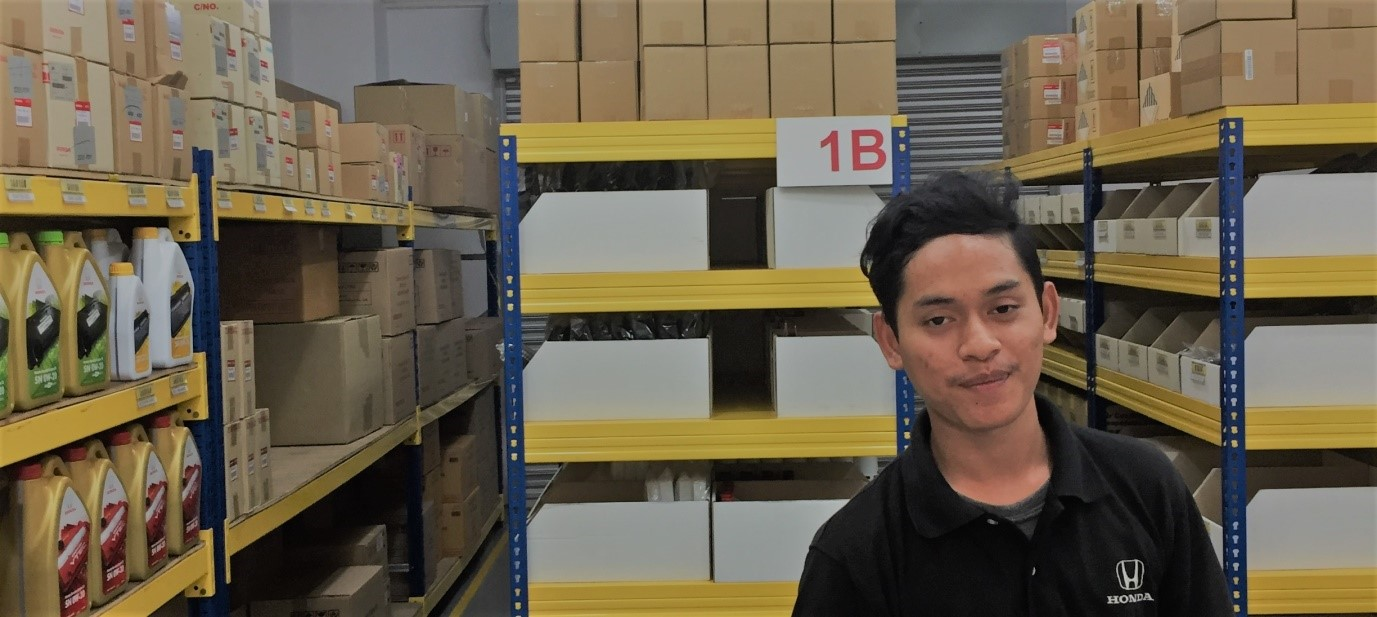
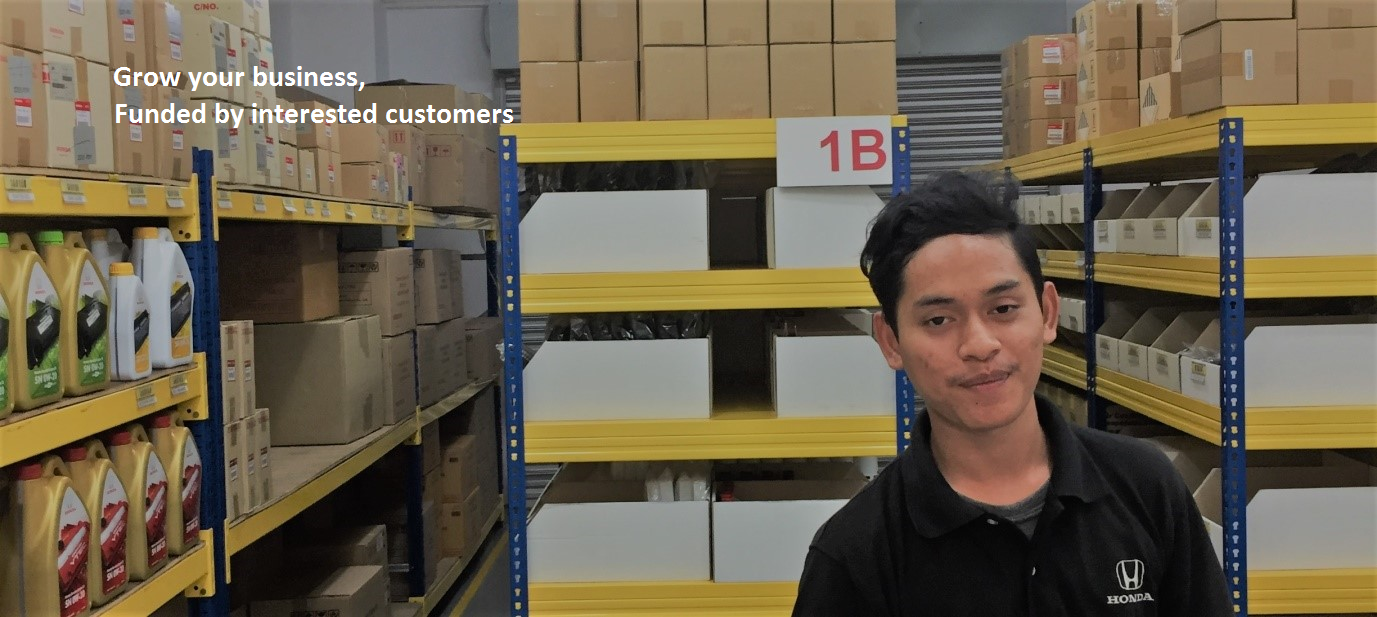
validation updated

Changed region(s): [[0.0625, 0.0924, 0.3747, 0.2156]]

diff --git a/resources/views/home/businessLoans.blade.php b/resources/views/home/businessLoans.blade.php
@@ -1,59 +1,47 @@
 @extends('layouts.app')
 @section('content')
 
-    <div class="container" >
-        <div class="col-sm-12" >
-            <h1 ><b>Business Loans </b></h1>
-    <div class="container">
-        <div class="row">
-            <div class="col-sm-8">
-                <div class="card">
-                    <div class="card-block">
+    <div class="container-responsive"  >
 
-                        <img src = {{asset('/images/borrower.png')}}  height="400" width="1050">
 
-                        <p id="cap">
-                            Grow your business,<br>
-                            Funded by interested customers
-                        </p>
+            <div class="col-sm-12" style="padding-top:25px">
+            <div class="container-fluid">
+        <h1 ><b>Business Loans </b></h1>
+                        <img src = {{asset('/images/borrower.png')}} class="img-fluid" class="img-responsive" >
 
-                    </div>
-                </div>
-            </div>
         </div>
     </div>
-
-    <div class="container">
+            <div class="container-fluid">
         <div class="row">
-            <div class="col-sm-11">
-                <div class="card">
-                    <div class="card-block">
-    <table class="Business Loans table">
-        <thead>
+            <div class="col-sm-12">
+
+
+    <table class="Business Loans table-responsive">
+        <thead><br><br>
         <tr><th> Borrow MYR 50,000– MYR3mm <br> unsecured   </th>
-            <th> |<br>| </th>
+
             <th>Online application. Decision <br> in 2 working days  </th>
-            <th> | <br>|</th>
+
             <th>Flexible terms up to <br> 3 years </th>
-            <th> | <br>|</th>
+
             <th>Dedicated help <br> desk</th>
         </tr></table>
         </thead>
-                    </div>
-                </div>
+
+
             </div>
         </div>
     </div>
 
-    <div class="container">
 
 
+        <div class="container-fluid">
         <div class="row">
-            <div class="col-sm-8">
-                <div class="card">
+            <div class="col-sm-12" style="background-color:#122b40;">
 
-                    <div class="card-block" align="left" >
-                        <table style ="background-color:#122b40" class ="simple application" height="50" width="1050">
+
+
+
             <thead>
             <tr>
                 <th><b><font color="WHITE" size="05">Simple Application</font></b><br><br></th>
@@ -71,13 +59,13 @@
             <td><b><font color="WHITE">step 3 : Up to 7 days to get funding</font></b><br><br></td>
             </tr>
             </tbody>
-        </table>
-                    </div>
-                </div>
+
+
+            </div>
             </div>
                      </div>
-                </div>
-    <div class="container">
+
+    <div class="container" class="img-fluid">
 
         <div class="row">
             <div class="col-sm-5">
@@ -163,7 +151,7 @@
                     </div>
         </div>
     </div>
-        </div>
+
 
     </div>
     </div>

diff --git a/app/Http/Controllers/Auth/RegisterController.php b/app/Http/Controllers/Auth/RegisterController.php
@@ -48,9 +48,9 @@ class RegisterController extends Controller
     protected function validator(array $data)
     {
         return Validator::make($data, [
-            'first_name' => 'required|max:255',
-            'last_name' => 'required|max:255',
-            'middle_name' => 'max:255',
+            'first_name' => 'required|Alpha|max:255',
+            'last_name' => 'required|Alpha|max:255',
+            'middle_name' => 'max:255|Alpha',
             'role_request' => 'required',
             'email' => 'required|email|max:255|unique:users',
             'password' => 'required|min:6|confirmed',

diff --git a/app/Http/Controllers/ManagerController.php b/app/Http/Controllers/ManagerController.php
@@ -37,10 +37,12 @@ class ManagerController extends Controller
     public function store(Request $request)
     {
         $this->validate($request, [
-            'first_name' => 'required',
-            'last_name' => 'required',
+            'first_name' => 'required|Alpha',
+            'last_name' => 'required|Alpha',
+            'middle_name' => 'Alpha',
             'email' => 'required|email|max:255|unique:users',
             'password' => 'required|min:6|confirmed',
+
         ]);
 
         $manager= new User();

diff --git a/app/Http/Controllers/NewsletterController.php b/app/Http/Controllers/NewsletterController.php
@@ -22,8 +22,8 @@ class NewsletterController extends Controller
     public function store(Request $request)
     {
         $this->validate($request, [
-            'newsletter_first_name' => 'required',
-            'newsletter_last_name' => 'required',
+            'newsletter_first_name' => 'required|Alpha',
+            'newsletter_last_name' => 'required|Alpha',
             'newsletter_email' => 'required|email|max:255|unique:newsletters',
             'newsletter_user_type' => 'required',
         ]);

diff --git a/resources/views/home/investing.blade.php b/resources/views/home/investing.blade.php
@@ -25,7 +25,7 @@
             </br>
             <img style="float:left;width: 210px ;padding: 5px" src="{{asset('/images/investNow.jpg')}}" class="img-responsive">
         </div>
-        <div class="   col-sm-8">
+        <div class="col-sm-8">
             </br>
             <table class=" investmentTableLayout  table">
                 <tr> <td> <img style="float:left;width: 85px ;padding: 5px" src="{{asset('/images/whyInvestPic1.jpg')}}" class="img-responsive"> </td>

diff --git a/resources/views/managers/create.blade.php b/resources/views/managers/create.blade.php
@@ -51,6 +51,7 @@
     <div class="form-group">
         {!! Form::label('password_confirmation', 'Confirm Password') !!}
         {!! Form::password('password_confirmation',['class'=>'form-control']) !!}
+
     </div>
 
     <div class="form-group">
